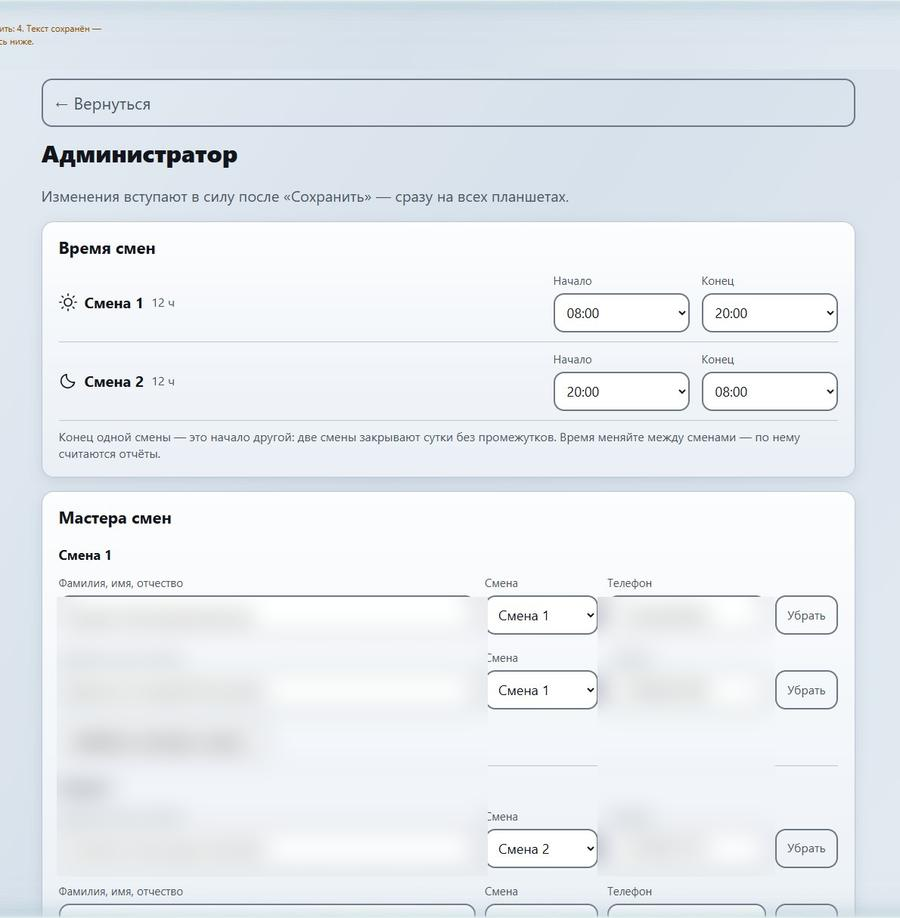
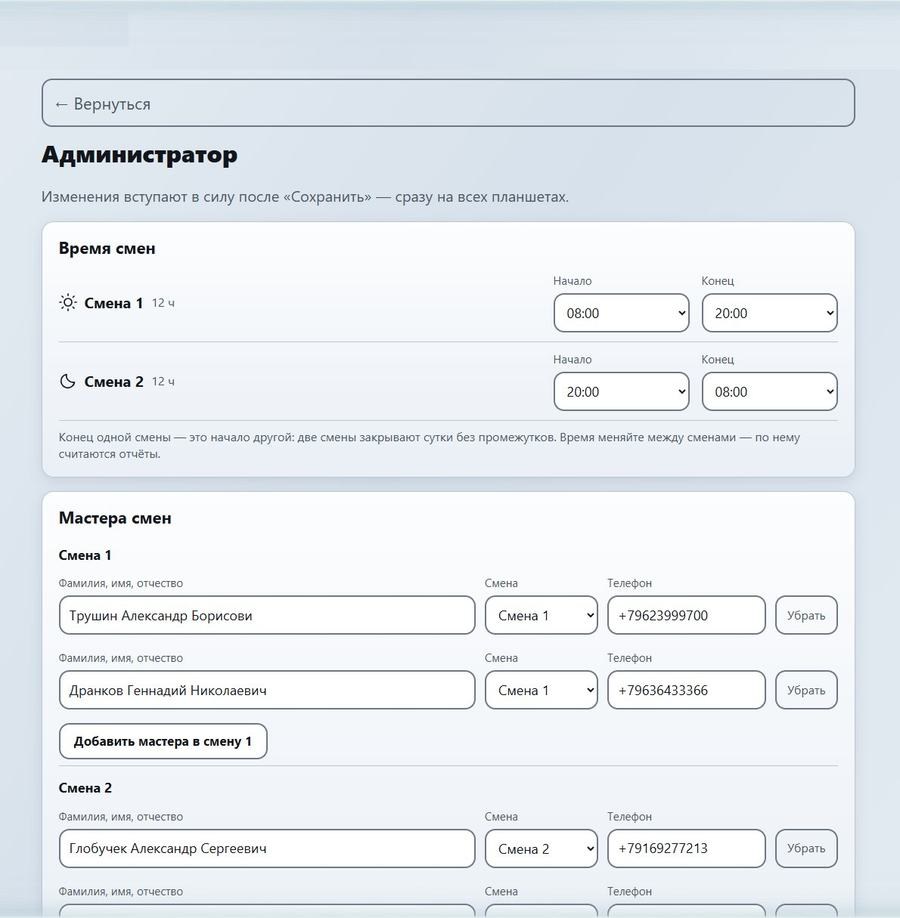
Открыты фейковые записи, убраны блоки «Нужно исправить», снято размытие в таблице

diff --git a/index.html b/index.html
@@ -376,7 +376,7 @@
       <tr class="a" style="--d:.4s;opacity:1;animation:none"><th></th><th>Было</th><th>Стало</th></tr>
       <tr style="--d:.55s"><td><b>Время простоя</b></td><td class="was">по памяти, в конце смены</td><td class="now">ставит система в момент нажатия</td></tr>
       <tr style="--d:.7s"><td><b>Ввод на остановку</b></td><td class="was">7–10 полей формы</td><td class="now">кнопка, плитка, пара слов</td></tr>
-      <tr style="--d:.85s"><td><b>Причины</b></td><td class="was"><span class="blur">список из 21 кода</span></td><td class="now">три понятные группы</td></tr>
+      <tr style="--d:.85s"><td><b>Причины</b></td><td class="was">список из 21 кода</td><td class="now">три понятные группы</td></tr>
       <tr style="--d:1s"><td><b>Ответственный</b></td><td class="was">не известен</td><td class="now">смена и ФИО мастера</td></tr>
       <tr style="--d:1.15s"><td><b>Итоги смены</b></td><td class="was">сводят вручную</td><td class="now">готовы сразу, на экране</td></tr>
       <tr style="--d:1.3s"><td><b>Показатели стана</b></td><td class="was">не считаются</td><td class="now">доступность, отказы, ремонт</td></tr>
